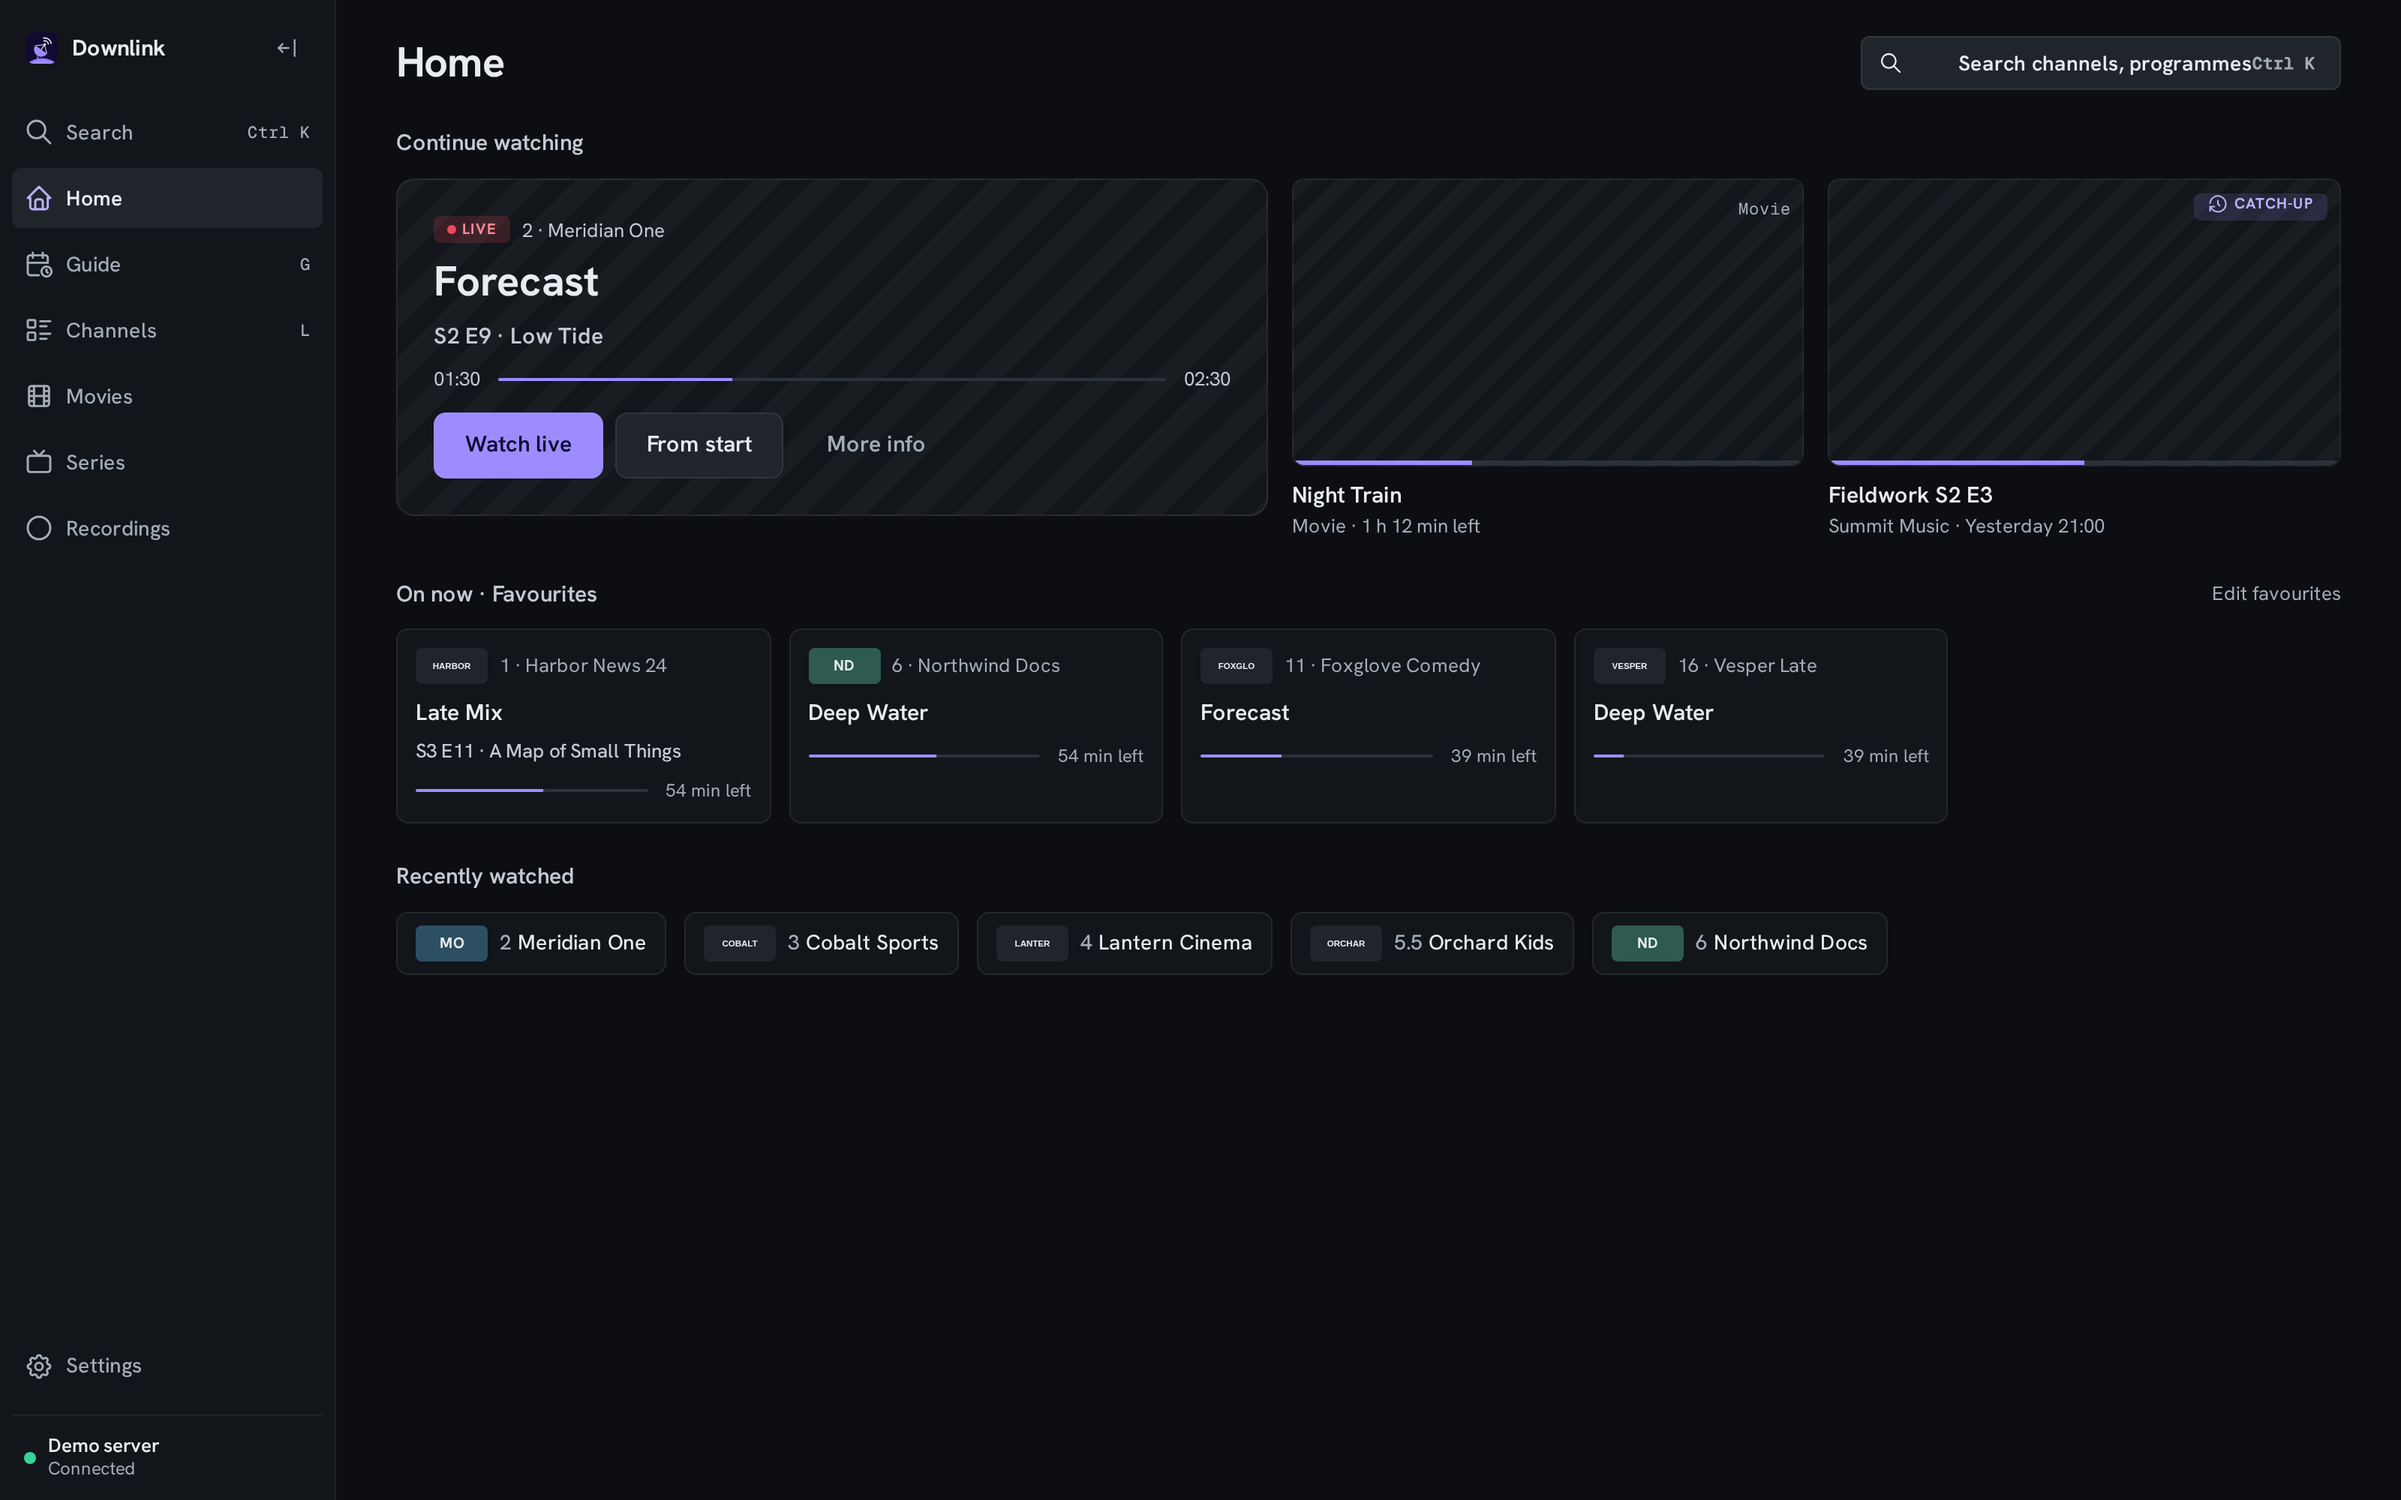
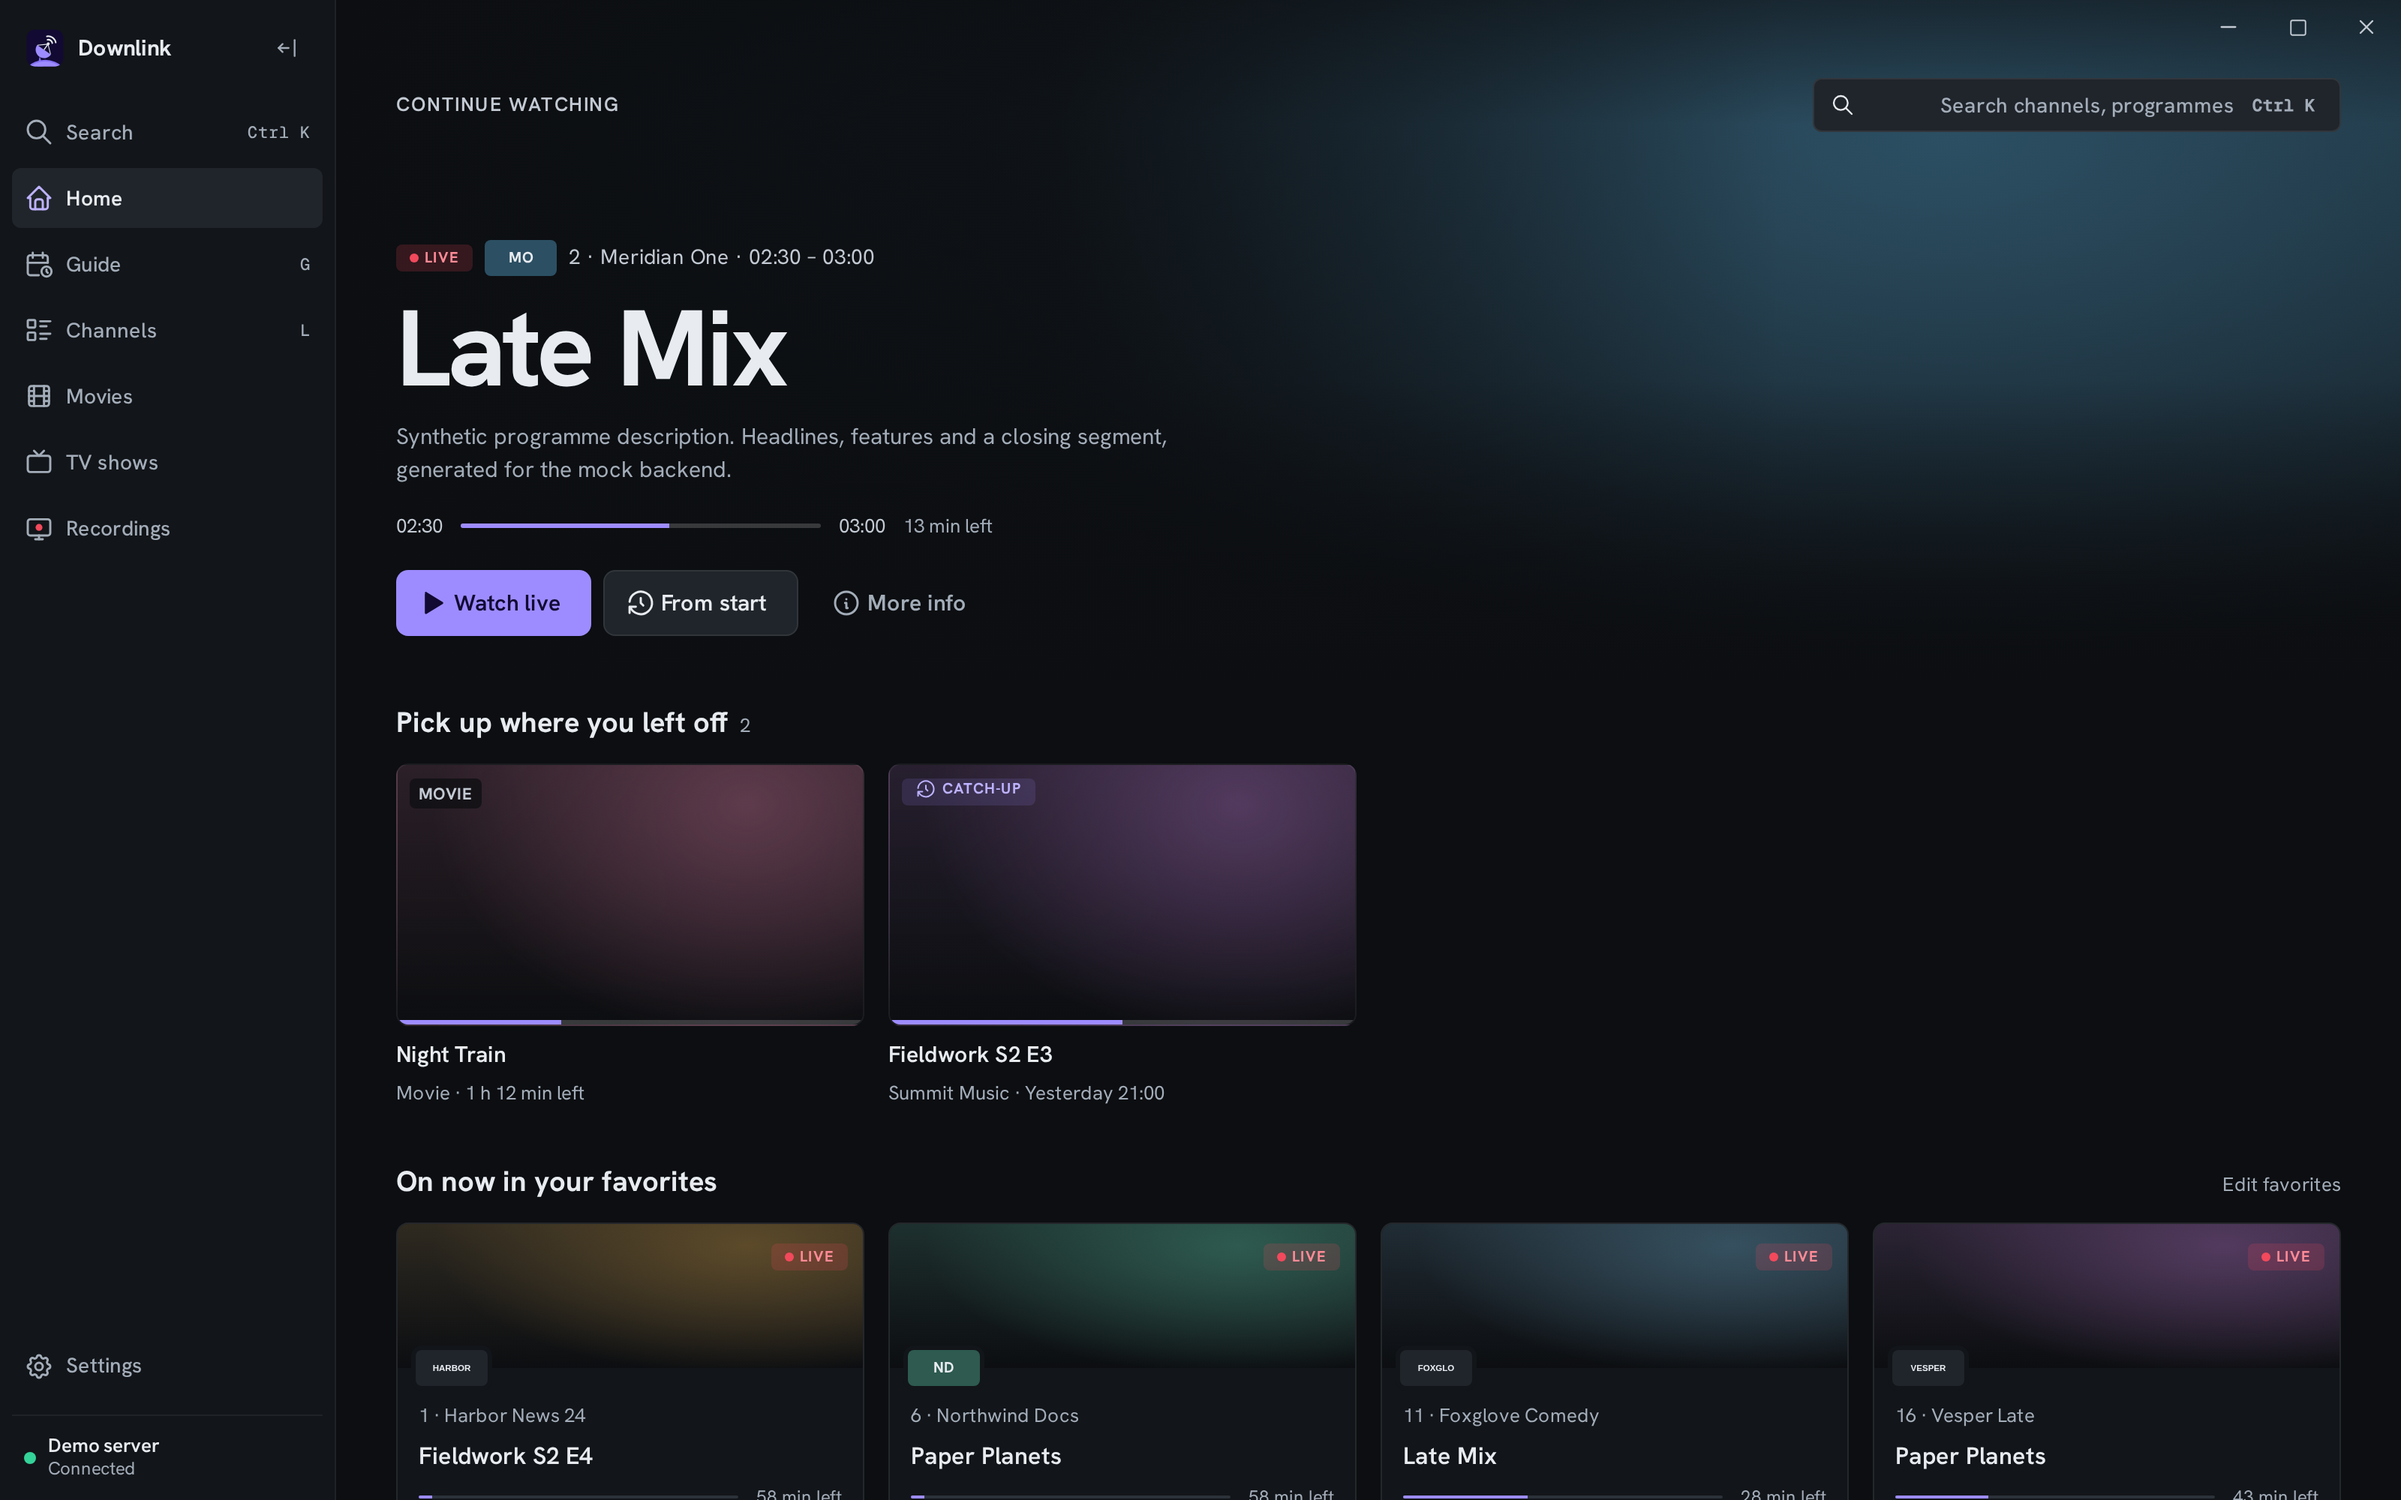
update readme images

diff --git a/README.md b/README.md
@@ -40,13 +40,13 @@ While not required, this app is best used with [Dispatcharr](https://github.com/
 
 ## Screenshots
 
-_All screenshots use synthetic test data. Channels, programmes and artwork are made up._
+_All screenshots use synthetic test data. Channels, programs and artwork are made up._
 
 | | |
 |:---:|:---:|
-| ![Home](.github/screenshots/home.png)<br>**Home** | ![Guide with live video playing](.github/screenshots/guide-playing.png)<br>**Guide with live preview** |
-| ![Now playing](.github/screenshots/now-playing.png)<br>**Now playing** | ![Multiview with one large and two small tiles](.github/screenshots/multiview.png)<br>**Multiview** |
-| ![Movies browse](.github/screenshots/movies.png)<br>**Movies** | ![Recordings](.github/screenshots/recordings.png)<br>**Recordings** |
+| ![Home with a live hero, continue watching and favorites](.github/screenshots/home.png)<br>**Home** | ![Guide with live video playing](.github/screenshots/guide-playing.png)<br>**Guide with live preview** |
+| ![Now playing with the control bar and up-next card](.github/screenshots/now-playing.png)<br>**Now playing** | ![Multiview with one large and two small tiles](.github/screenshots/multiview.png)<br>**Multiview** |
+| ![Movies browse](.github/screenshots/movies.png)<br>**Movies** | ![Recordings grouped by show with a recording in progress](.github/screenshots/recordings.png)<br>**Recordings** |
 
 ## Getting started
 
